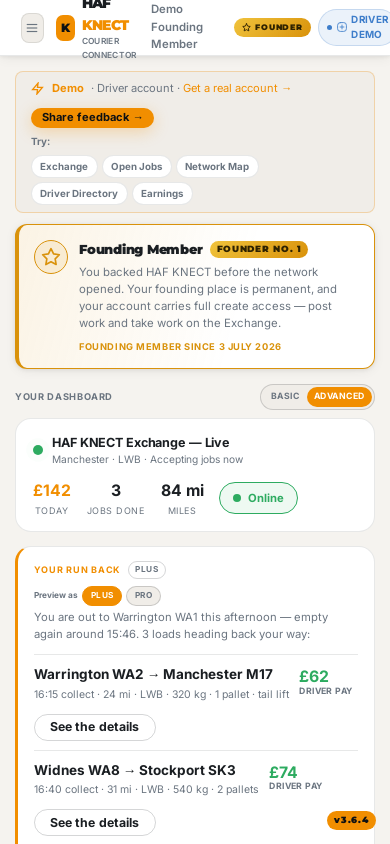
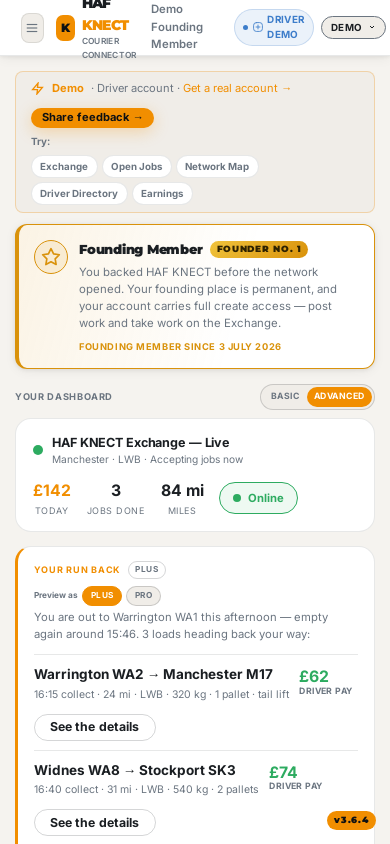
A long name no longer pushes the top bar off a phone screen
Signing in as someone with a real full name ran the right-hand row 41px
past the edge; production does the same 24px with the shorter demo name,
so this was already there and the founders work only made it visible.
The name now truncates and gives up its space before the controls do.

Test updated to match the design: on a phone the top-bar mark stands
down and the card carries it, and the top bar itself is now asserted to
stay inside the screen at every width.

Changed region(s): [[0.5846, 0.0, 1.0, 0.0616]]

diff --git a/admin/index.html b/admin/index.html
@@ -484,6 +484,7 @@ function pmRows(){
     return '<tr><td><b>'+o.ref+'</b></td><td>'+esc(o.from+' → '+o.to+' · '+o.miles+'mi')+'</td><td>'+esc(r.inputs.jobType+(o.isDirectBooking?' · DIRECT':''))+'</td><td>'+esc((PM.config.plnaTiers[o.plnaTier]||{}).name||o.plnaTier)+'</td><td>'+esc((PM.config.knectTiers[o.knectTier]||{}).name||o.knectTier)+'</td><td>'+money(r.money.driverPayGbp)+'</td><td>'+r.money.hafMarginPct+'% ('+money(r.money.hafMarginGbp)+')</td><td><b>'+money(r.money.customerIncVatGbp)+'</b></td><td><span class="pill '+cls+'">'+s+'</span></td><td><button class="ebtn" onclick="pmOpen(\''+o.ref+'\')">Open</button></td></tr>';
   }).join('');
   pmPools();
+  pmRevenue();
 }
 window.pmOpen=function(ref){
   const o=DEMO.find(x=>x.ref===ref);if(!o)return;
@@ -506,6 +507,53 @@ window.pmOpen=function(ref){
   $('pm-detail').style.display='block';
   $('pm-detail').scrollIntoView({behavior:'smooth',block:'nearest'});
 };
+/* ===== REVENUE-V1 — what HAF actually EARNS on a job, not just what it charges.
+   Brent's "HAF Network Pricing Formula" §11: the network fee is revenue, not
+   profit. Every deduction is shown, each one exactly once. ===== */
+const RM=(typeof HAFRevenueModel!=='undefined')?HAFRevenueModel:null;
+function pmJobRevenue(r){
+  if(!RM)return'';
+  const v=RM.jobRevenue(r),b=v.breakdown,g=v.grossProfit;
+  const row=(l,val,strong)=>'<div class="mrow"><span>'+esc(l)+'</span><b>'+(strong?'<u>':'')+val+(strong?'</u>':'')+'</b></div>';
+  return '<div class="pm-sub">What HAF earns on this job</div>'+
+    row('Driver payable',money(b.driverPayableGbp))+
+    row('HAF network fee',money(b.hafNetworkFeeGbp))+
+    (b.otherChargesGbp>0?row('Other charges (passed straight through)',money(b.otherChargesGbp)):'')+
+    row('Customer price ex VAT',money(b.customerExVatGbp))+
+    row('VAT',money(b.vatGbp))+
+    row('Final customer price',money(b.customerIncVatGbp))+
+    '<div class="pm-sub">Fee → profit</div>'+
+    row('Network fee before HAF-funded costs',money(g.networkFeeBeforeFundedCostsGbp))+
+    (g.lessHafFundedJobCostsGbp>0?row('less driver reward HAF funded itself','−'+money(g.lessHafFundedJobCostsGbp)):'')+
+    (g.lessPaymentProcessingGbp>0?row('less payment processing','−'+money(g.lessPaymentProcessingGbp)):'')+
+    row('less back into the network pools','−'+money(g.lessNetworkPoolContributionGbp))+
+    (g.lessApprovedDiscountsGbp>0?row('less approved discount','−'+money(g.lessApprovedDiscountsGbp)):'')+
+    row('HAF gross profit',money(b.hafGrossProfitGbp)+' ('+g.grossProfitPctOfCustomer+'% of the customer price)',true)+
+    (v.context.revenueForegoneByAccountGbp>0
+      ?'<p class="note" style="margin-top:.4rem">This account\'s '+v.context.accountFeeReductionPts+'-point reduction gave away '+money(v.context.revenueForegoneByAccountGbp)+' of fee on this job. It is already inside the percentage above, so it is shown rather than deducted twice.</p>'
+      :'')+
+    (g.processingBasis==='SUPPLIED_PER_INVOICE'
+      ?'<p class="note" style="margin-top:.4rem">No payment processing is charged here: CleverPay bills only when an invoice is generated, per driver per payment run — never assumed against a delivery.</p>':'');
+}
+/* The four streams (§10). Only delivery is earned per job — the other three are
+   recorded on their own lines and can never be reported as delivery margin. */
+function pmRevenue(){
+  const el=$('pm-revenue');if(!el||!RM)return;
+  const led=RM.createLedger();
+  DEMO.forEach(o=>{const r=st.results[o.ref]||calc(o);led.recordJob(RM.jobRevenue(r),o.ref)});
+  const by=led.byStream(),delivery=led.deliveryMargin();
+  const S=[
+    ['A','Delivery network revenue','the network fee on every job moved',money(delivery),'from the '+DEMO.length+' quotes above'],
+    ['B','Account subscriptions','PLNA, Freight, Fleet and paid KNECT memberships','—','recorded per account, not per job'],
+    ['C','Payroll &amp; processing','payment-run block fees and transaction fees','—','recorded per invoice, never inside a delivery fee'],
+    ['D','Additional services','relay, storage, credit, compliance, pages, AI, admin','—','recorded per service']
+  ];
+  el.innerHTML='<div class="tblwrap"><table><thead><tr><th></th><th>Stream</th><th>What it is</th><th>On this screen</th><th>Where it is earned</th></tr></thead><tbody>'+
+    S.map(s=>'<tr><td><b>'+s[0]+'</b></td><td><b>'+s[1]+'</b></td><td>'+s[2]+'</td><td>'+s[3]+'</td><td>'+s[4]+'</td></tr>').join('')+
+    '</tbody></table></div>';
+  if(by.SUBSCRIPTION.gbp||by.PAYROLL.gbp||by.SERVICES.gbp)
+    console.warn('Non-delivery revenue reached the job ledger — check the stream mapping.');
+}
 window.pmApprove=function(ref){
   st.statuses[ref]='Approved';const r=st.results[ref];
   logAudit(ref,'back-office','APPROVED','Customer '+money(r.money.customerIncVatGbp)+' · driver '+money(r.money.driverPayGbp)+' · margin '+r.money.hafMarginPct+'%');

diff --git a/index.html b/index.html
@@ -213,8 +213,10 @@ body.tile-focus #inline-flow>.calc-box{flex:1;display:flex;flex-direction:column
 .tlogo-t{font-family:var(--dp);font-weight:900;font-size:.92rem;letter-spacing:-.04em;color:var(--tx)}
 .tlogo-t span{color:var(--or)}
 .menu-btn{display:none;width:30px;height:30px;border-radius:var(--rx);background:var(--p2);border:1px solid var(--ln);align-items:center;justify-content:center;color:var(--mu);cursor:pointer}
-.tb-r{display:flex;align-items:center;gap:.45rem}
-.tb-user{font-size:.76rem;font-weight:600;color:var(--mu)}
+.tb-r{display:flex;align-items:center;gap:.45rem;min-width:0}
+/* A long real name used to push the whole right-hand row off a phone screen.
+   The name gives up its space first — everything after it is a control. */
+.tb-user{font-size:.76rem;font-weight:600;color:var(--mu);min-width:0;overflow:hidden;text-overflow:ellipsis;white-space:nowrap}
 .role-chip{font-size:.64rem;font-weight:700;letter-spacing:.06em;padding:.13rem .5rem;border-radius:var(--pill);text-transform:uppercase}
 .ib{width:28px;height:28px;border-radius:var(--rx);background:var(--p2);border:1px solid var(--ln);display:flex;align-items:center;justify-content:center;color:var(--mu);transition:all .14s;cursor:pointer}
 .ib:hover{color:var(--tx);background:var(--p3)}
